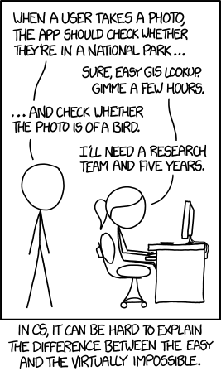
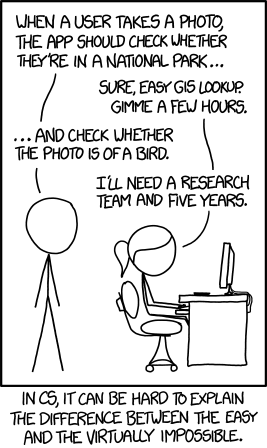
Use higher-resolution images in the scoping post
Swap the meme for a 675x499 JPEG and the xkcd comic for a 267x448 PNG,
and raise each max-width to the new natural size so neither upscales.

diff --git a/technology/_posts/2026-09-06-the-craft-of-software-scoping.md b/technology/_posts/2026-09-06-the-craft-of-software-scoping.md
@@ -75,7 +75,7 @@ With AI agents, it has become ridiculously easy to build a minimal usable versio
 For example, a couple of years ago, instead of debating whether our users would want a natural language search, I built a crude version, put our own research data into it and asked our team to try it out. We were then able to build conviction, quickly iterate with internal feedback and finalize its scope in a few days.
 
 <p style="text-align: center;">
-  <img src="/assets/img/scoping-just-build-a-prototype.png" alt="Bell curve meme: the low and high ends both say &quot;Just build a prototype&quot; while the middle says &quot;Nooo you must first write a PRD, then make a design, then make tickets, then...&quot;" style="width: 100%; max-width: 368px;" />
+  <img src="/assets/img/scoping-just-build-a-prototype.jpeg" alt="Bell curve meme: the low and high ends both say &quot;Just build a prototype&quot; while the middle says &quot;Nooo you must first write a PRD, then make a design, then make tickets, then...&quot;" style="width: 100%; max-width: 675px;" />
 </p>
 
 ### 4. Address the unknown
@@ -97,7 +97,7 @@ If something is worth doing, you should decide how much time you are willing to 
 This need not be set in stone on day 1 either. As your understanding of the reasons, goals, and unknowns improve, you may improvise on either the scope or the timeline.
 
 <p style="text-align: center;">
-  <img src="/assets/img/xkcd-1425-tasks.png" alt="xkcd comic: a user asks for an app that checks whether a photo was taken in a national park (&quot;easy GIS lookup, a few hours&quot;) and whether the photo is of a bird (&quot;I'll need a research team and five years&quot;)" style="width: 100%; max-width: 221px;" />
+  <img src="/assets/img/xkcd-1425-tasks.png" alt="xkcd comic: a user asks for an app that checks whether a photo was taken in a national park (&quot;easy GIS lookup, a few hours&quot;) and whether the photo is of a bird (&quot;I'll need a research team and five years&quot;)" style="width: 100%; max-width: 267px;" />
   <br/>
   <em><a href="https://xkcd.com/1425/">xkcd #1425, "Tasks"</a></em>
 </p>
